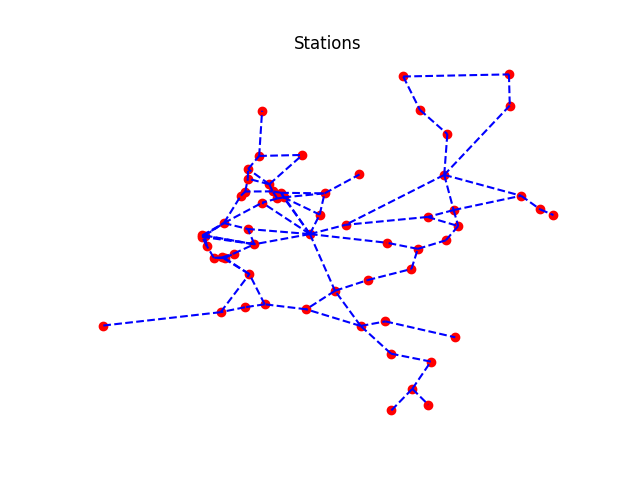
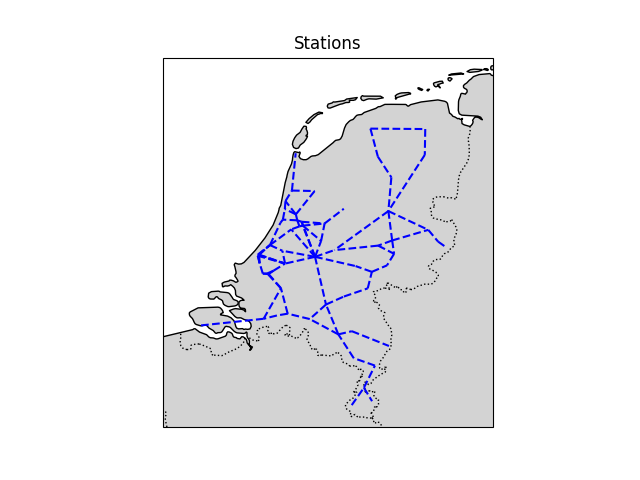
added map to visualisation

Changed region(s): [[0.1562, 0.125, 0.8438, 0.9062], [0.8438, 0.4375, 0.875, 0.4688], [0.4062, 0.2188, 0.4375, 0.25]]

diff --git a/visualisation.py b/visualisation.py
@@ -1,4 +1,6 @@
 import matplotlib.pyplot as plt
+import cartopy.crs as ccrs
+import cartopy.feature as cfeature
 from representation import Map
 from sys import argv
 
@@ -38,25 +40,34 @@ def show_plot(station_names: list[str], info_dict: dict[str: list[float]]) -> No
         - 
     """
 
-    # make scatterplot
-    plt.scatter([info_dict[name][1] for name in station_names], [
-                info_dict[name][0] for name in station_names], color='red')
+    # Create a Cartopy map with a EuroPP projection
+    fig, ax = plt.subplots(subplot_kw={'projection': ccrs.EuroPP()})
 
-    # add connections
+    # Set the extent to zoom in on the Netherlands
+    # [min_longitude, max_longitude, min_latitude, max_latitude]
+    ax.set_extent([3.2, 7.5, 50.7, 53.7])
+
+    # Add country borders
+    ax.add_feature(cfeature.BORDERS, linestyle=':')
+
+    # Add land background
+    ax.add_feature(cfeature.LAND, edgecolor='black', facecolor='lightgray')
+
+    # Plot station locations
+    ax.scatter([info_dict[name][1] for name in station_names], [
+               info_dict[name][0] for name in station_names], color='red')
+
+    # Plot connections
     for connection in map.connections:
-
         start_coords = info_dict[connection.station_1]
         end_coords = info_dict[connection.station_2]
+        ax.plot([start_coords[1], end_coords[1]], [start_coords[0],
+                end_coords[0]], 'b--', transform=ccrs.PlateCarree())
 
-        plt.plot([start_coords[1], end_coords[1]], [
-                 start_coords[0], end_coords[0]], 'b--')
+    # Set title
+    ax.set_title('Stations')
 
-    # axis title
-    plt.title('Stations')
-
-    # hide the axis (values)
-    plt.axis('off')
-
+    # Save or display the plot
     plt.savefig('Map')
 
 
